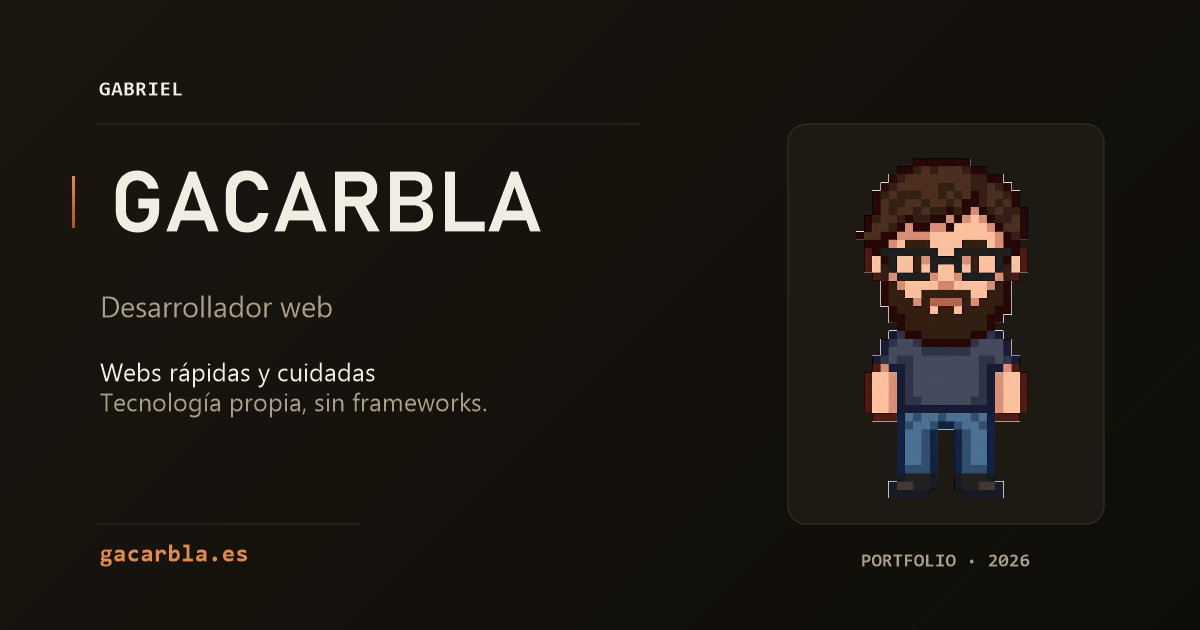
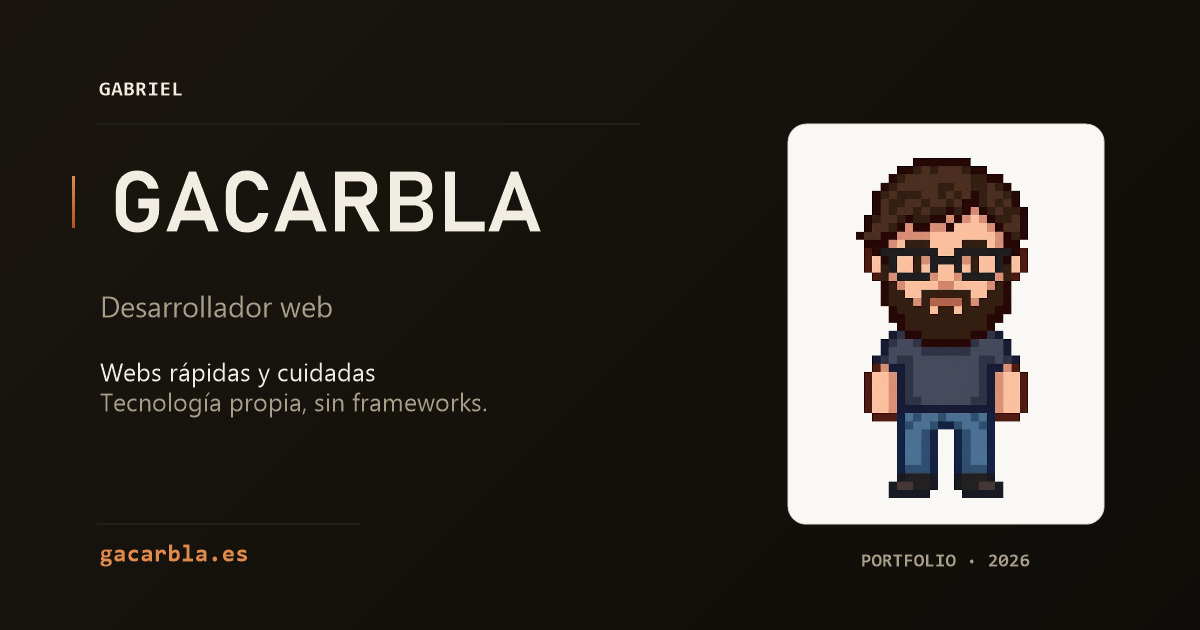
Pasa el retrato a panel blanco y actualiza Cloudflare
El personaje esta disenado para fondo blanco: el marco pasa a #faf8f4 con borde #e5ded2. Se mantiene la tarjeta oscura y el contraste del panel. Imagen 1200x630, 108 KB, cache v=4. La nota de Cloudflare pasa a estado resuelto para bots oficiales no-IA.

Changed region(s): [[0.6475, 0.181, 0.925, 0.8444]]

diff --git a/index.html b/index.html
@@ -14,8 +14,8 @@
 <meta property="og:title" content="GACARBLA — Portfolio de Gabriel">
 <meta property="og:description" content="Desarrollador web. Webs rápidas y cuidadas con tecnología propia, sin frameworks.">
 <meta property="og:url" content="https://gacarbla.es/">
-<meta property="og:image" content="https://gacarbla.es/assets/og.png?v=3">
-<meta property="og:image:secure_url" content="https://gacarbla.es/assets/og.png?v=3">
+<meta property="og:image" content="https://gacarbla.es/assets/og.png?v=4">
+<meta property="og:image:secure_url" content="https://gacarbla.es/assets/og.png?v=4">
 <meta property="og:image:type" content="image/png">
 <meta property="og:image:width" content="1200">
 <meta property="og:image:height" content="630">
@@ -32,7 +32,7 @@
 <meta name="twitter:card" content="summary_large_image">
 <meta name="twitter:title" content="GACARBLA — Portfolio de Gabriel">
 <meta name="twitter:description" content="Desarrollador web. Webs rápidas y cuidadas con tecnología propia, sin frameworks.">
-<meta name="twitter:image" content="https://gacarbla.es/assets/og.png?v=3">
+<meta name="twitter:image" content="https://gacarbla.es/assets/og.png?v=4">
 <meta name="twitter:image:alt" content="GACARBLA, portfolio de Gabriel, desarrollador web">
 
 <!-- Color de la interfaz del navegador / Browser UI color -->

diff --git a/docs/social-preview.md b/docs/social-preview.md
@@ -7,26 +7,15 @@
 - Tarjeta **1200×630** en `assets/og.png` (108 KB, por debajo del límite habitual de
   WhatsApp).
 - Generador reproducible: `scripts/og-image.ps1` (PowerShell + System.Drawing).
-  Usa el retrato enmarcado, la paleta y la tipografía de la web.
+  Usa el retrato enmarcado sobre panel claro, la paleta y la tipografía de la web.
 - `404.html` es una copia de `index.html`, así que también lleva las etiquetas.
 
 ## Cloudflare
 
-El dominio está detrás de Cloudflare. Si el proxy está activo con un challenge
-(Under Attack Mode, Bot Fight Mode o una regla de seguridad), Discord, WhatsApp,
-Telegram, Twitter/X y LinkedIn reciben un **403 «Just a moment…»** y no pueden leer
-las etiquetas ni la imagen.
-
-Dos formas de arreglarlo:
-
-1. **DNS only**: poner el registro de `gacarbla.es` en gris (sin proxy). GitHub Pages
-   sirve directamente y los bots leen el HTML y la imagen.
-2. **Mantener el proxy**: crear una regla WAF de tipo **Skip** para los user agents
-   de los bots sociales y las rutas `/` y `/assets/*`:
-   `Discordbot`, `WhatsApp`, `Twitterbot`, `facebookexternalhit`, `TelegramBot`,
-   `LinkedInBot`, `Slackbot`, `Pinterest`, `redditbot`.
-   Si se usa «Verified Bots», comprobar que esos bots estén permitidos. Desactivar
-   Under Attack Mode / Bot Fight Mode mientras se prueba.
+Cloudflare está configurado para permitir los bots oficiales y seguros que no sean de
+IA. Discord, WhatsApp, Telegram, Twitter/X y LinkedIn pueden leer las etiquetas y la
+imagen. Si alguna tarjeta deja de aparecer, comprobar que el user-agent del cliente
+siga en la allowlist y que no se haya activado Under Attack Mode / Bot Fight Mode.
 
 ## Refrescar la caché
 
